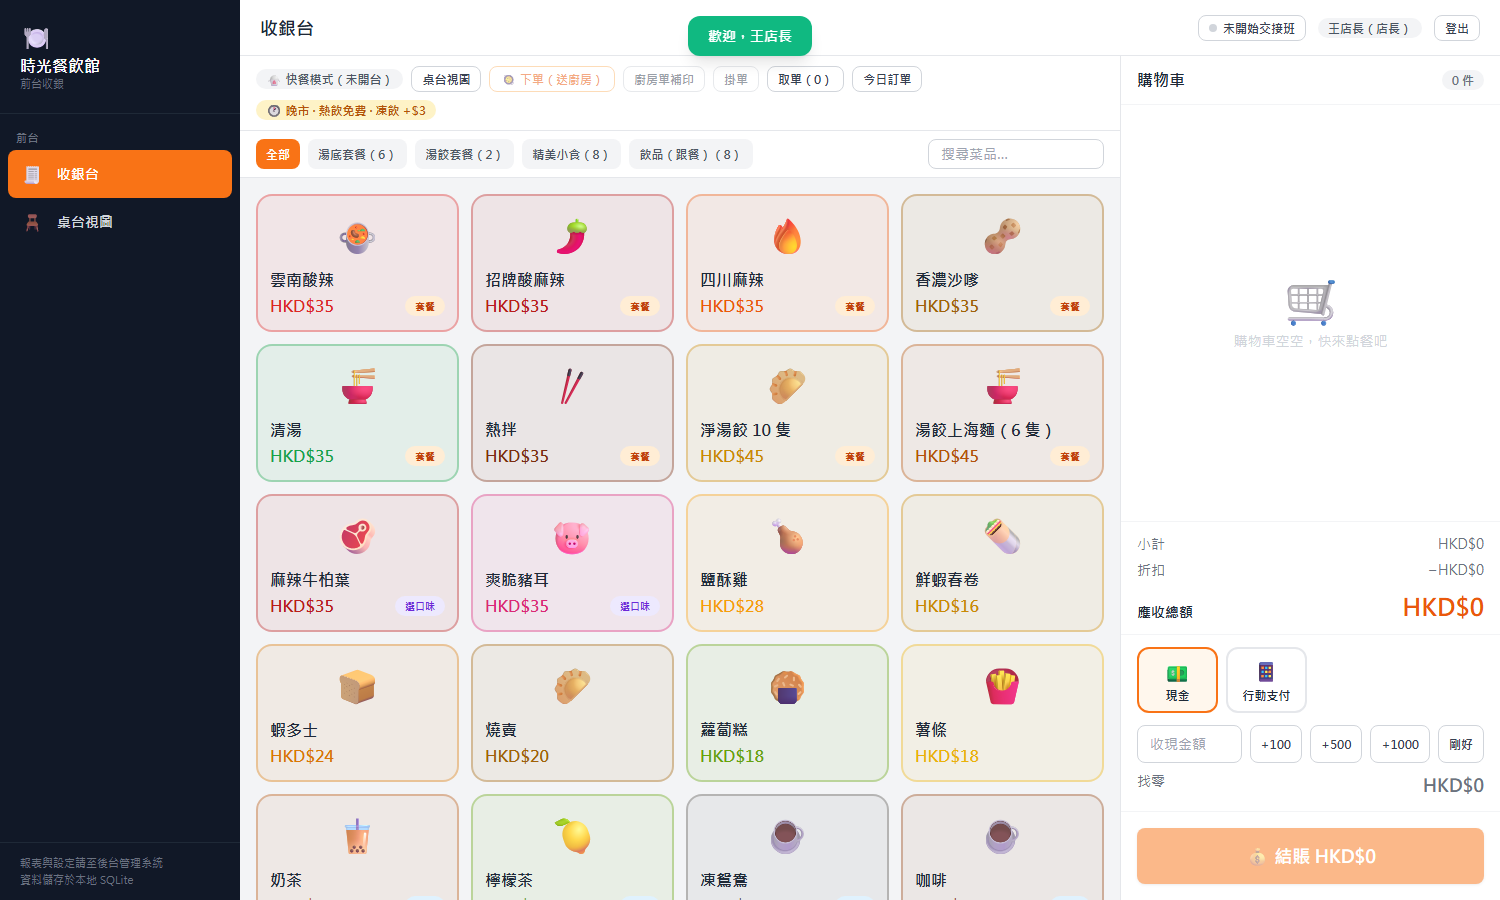
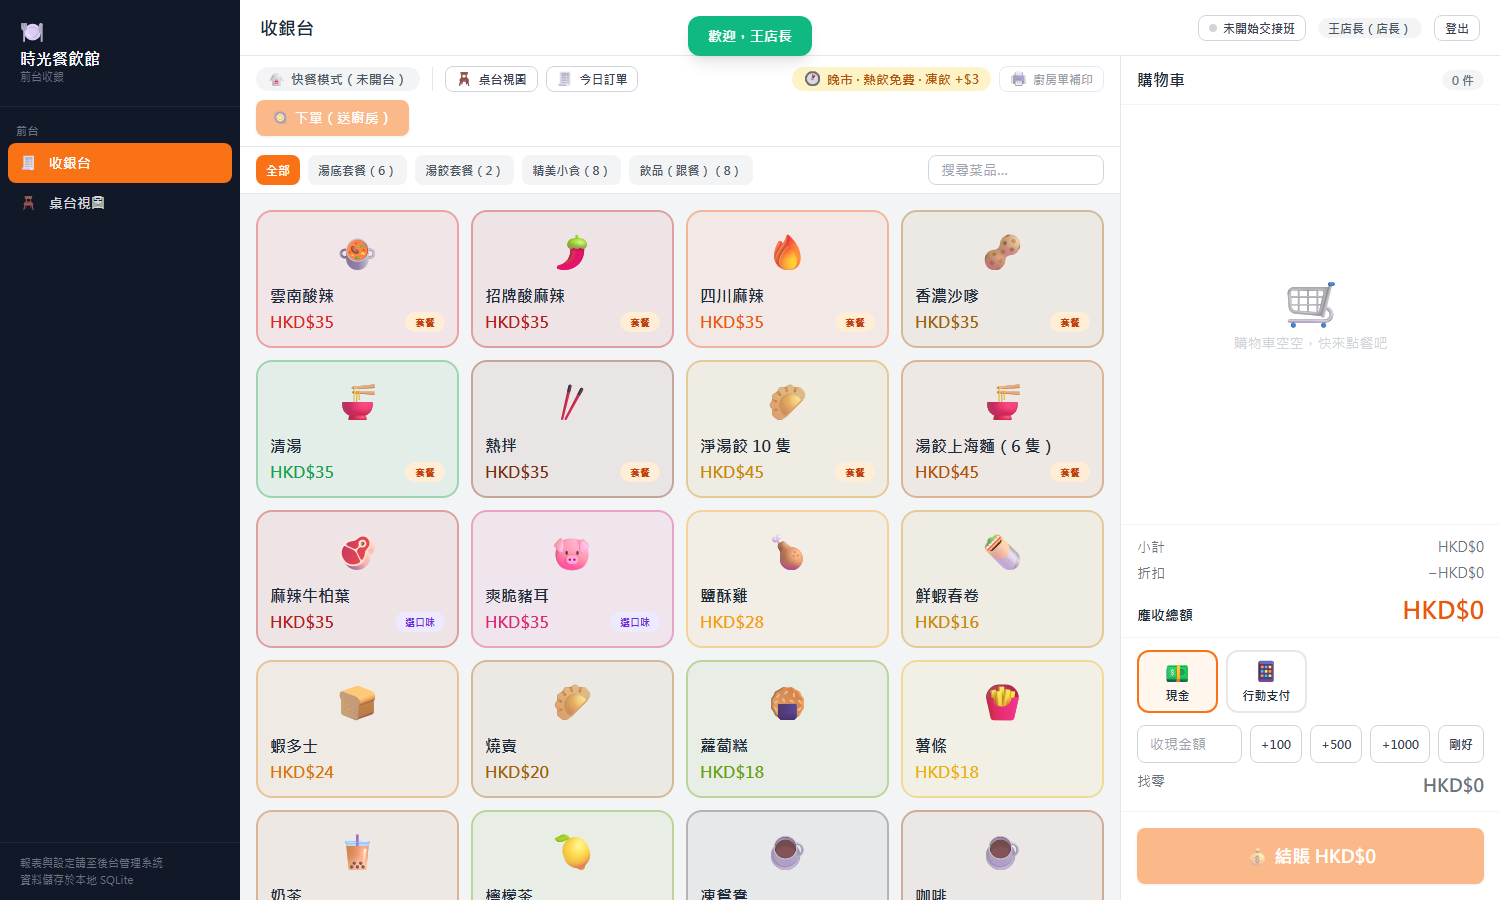
優化：移除掛單/取單功能，重排收銀台工具列並統一圖示尺寸
- 移除掛單 / 取單 / 刪除掛單（UI、pos store 的 hold/loadHeld/resumeHeld、今日訂單的刪除掛單按鈕），該功能用不上
- 收銀台工具列重新分區：左＝單據狀態（桌台/外帶、送廚進度）、中＝輔助操作（桌台視圖/今日訂單/換桌/作廢）、右＝時段資訊與主要動作（廚房單補印、下單送廚房）
- 新增 .ico / .ico-lg 統一 emoji 圖示尺寸（工具列、側邊欄導航、支付方式、廚房單標題），解決 emoji 字體內建度量不一造成的視覺大小落差
- 文件同步：README 前台功能清單、點餐流程設計的訂單狀態表與說明

diff --git a/client/src/views/PosView.vue b/client/src/views/PosView.vue
@@ -59,7 +59,6 @@ const specForm = ref({ product: null, qty: 1, spec: '', remark: '', editing: nul
 const discountModal = ref(false);
 const discountForm = ref({ mode: 'rate', rate: 95, amount: 0 });
 
-const heldModal = ref(false);
 const ordersModal = ref(false);
 const todayOrders = ref([]);
 const ordersDetail = ref(null);
@@ -77,7 +76,6 @@ const ticket = ref(null);
 onMounted(async () => {
   try {
     await catalog.loadAll();
-    await pos.loadHeld();
   } catch (e) {
     toast.error(e.message);
   }
@@ -193,26 +191,6 @@ function applyDiscount() {
   discountModal.value = false;
 }
 
-/* ---------------- 掛單 / 取單 ---------------- */
-async function holdOrder() {
-  try {
-    await pos.hold();
-    await pos.loadHeld();
-    toast.success('已掛單，可在「取單」恢復');
-  } catch (e) {
-    toast.error(e.message);
-  }
-}
-async function resumeHeld(order) {
-  try {
-    await pos.resumeHeld(order);
-    heldModal.value = false;
-    toast.success('已取單');
-  } catch (e) {
-    toast.error(e.message);
-  }
-}
-
 /* ---------------- 今日訂單 ---------------- */
 async function openOrders() {
   try {
@@ -251,17 +229,6 @@ async function voidOrderRow(o) {
     todayOrders.value = await api.get(`/orders?date=${today()}&limit=100`);
     ordersDetail.value = null;
     toast.success('訂單已作廢');
-  } catch (e) {
-    toast.error(e.message);
-  }
-}
-async function deleteHeldRow(o) {
-  if (!confirm(`確定刪除掛單 ${o.order_no}？`)) return;
-  try {
-    await api.del(`/orders/${o.id}`);
-    todayOrders.value = await api.get(`/orders?date=${today()}&limit=100`);
-    await pos.loadHeld();
-    toast.success('掛單已刪除');
   } catch (e) {
     toast.error(e.message);
   }
@@ -331,7 +298,6 @@ async function checkout() {
   try {
     receipt.value = await pos.checkout();
     await catalog.reloadTables();
-    await pos.loadHeld();
   } catch (e) {
     toast.error(e.message);
   }
@@ -407,32 +373,50 @@ const cashShort = computed(() => pos.paymentMethod === 'cash' && pos.received > 
   <div class="h-full flex">
     <!-- 左：菜品展示區 -->
     <section class="flex-1 flex flex-col min-w-0">
-      <!-- 工具列 -->
-      <div class="bg-white border-b border-gray-200 px-4 py-2.5 flex items-center gap-2 flex-wrap shrink-0">
-        <span
-          class="chip"
-          :class="pos.tableId ? 'bg-brand-100 text-brand-700' : pos.hasServerOrder ? 'bg-amber-100 text-amber-700' : 'bg-gray-100 text-gray-600'"
-        >
-          <template v-if="pos.tableId">🪑 桌台 {{ pos.tableNumber }} · {{ pos.orderNo }}</template>
-          <template v-else-if="pos.hasServerOrder">🥡 外帶 / 快餐 · {{ pos.orderNo }}</template>
-          <template v-else>🥡 快餐模式（未開台）</template>
-        </span>
-        <span v-if="pos.hasServerOrder" class="chip" :class="pos.pendingCount ? 'bg-gray-100 text-gray-500' : 'bg-emerald-100 text-emerald-700'">
-          {{ pos.pendingCount ? `${pos.pendingCount} 項待送廚` : '已全部送廚' }}
-        </span>
-        <button class="btn-ghost btn-sm" @click="router.push('/tables')">桌台視圖</button>
-        <button class="btn-ghost btn-sm !text-brand-600 !border-brand-300" :disabled="!pos.pendingCount || submitting" @click="submitOrder">
-          🥘 下單（送廚房）
-        </button>
-        <button class="btn-ghost btn-sm" :disabled="!pos.hasServerOrder" @click="reprintTicket">廚房單補印</button>
-        <button class="btn-ghost btn-sm" :disabled="!pos.items.length || pos.hasServerOrder" @click="holdOrder">掛單</button>
-        <button class="btn-ghost btn-sm" @click="heldModal = true">取單（{{ pos.heldOrders.length }}）</button>
-        <button class="btn-ghost btn-sm" @click="openOrders">今日訂單</button>
-        <button v-if="pos.tableId" class="btn-ghost btn-sm" @click="moveModal = true">換桌</button>
-        <button v-if="pos.hasServerOrder && auth.isManager" class="btn-ghost btn-sm !text-red-500" @click="voidModal = true">作廢</button>
+      <!-- 工具列：單據狀態 / 輔助操作 / 主要動作 -->
+      <div class="bg-white border-b border-gray-200 px-4 py-2.5 flex items-center gap-2 flex-wrap shrink-0 shadow-[0_1px_0_rgba(0,0,0,0.02)]">
+        <!-- 左：目前單據狀態 -->
+        <div class="flex items-center gap-2 pr-3 mr-1 border-r border-gray-200">
+          <span
+            class="chip !gap-1.5 !px-3 !py-1 !text-[13px]"
+            :class="pos.tableId ? 'bg-brand-100 text-brand-700' : pos.hasServerOrder ? 'bg-amber-100 text-amber-700' : 'bg-gray-100 text-gray-600'"
+          >
+            <span class="ico">{{ pos.tableId ? '🪑' : '🥡' }}</span>
+            <template v-if="pos.tableId">桌台 {{ pos.tableNumber }} · {{ pos.orderNo }}</template>
+            <template v-else-if="pos.hasServerOrder">外帶 / 快餐 · {{ pos.orderNo }}</template>
+            <template v-else>快餐模式（未開台）</template>
+          </span>
+          <span
+            v-if="pos.hasServerOrder"
+            class="chip !gap-1.5 !px-3 !py-1 !text-[13px]"
+            :class="pos.pendingCount ? 'bg-gray-100 text-gray-500' : 'bg-emerald-100 text-emerald-700'"
+          >
+            <span class="ico">{{ pos.pendingCount ? '⏳' : '✅' }}</span>
+            {{ pos.pendingCount ? `${pos.pendingCount} 項待送廚` : '已全部送廚' }}
+          </span>
+        </div>
+
+        <!-- 中：輔助操作 -->
+        <div class="flex items-center gap-2">
+          <button class="btn-ghost btn-sm" @click="router.push('/tables')"><span class="ico">🪑</span>桌台視圖</button>
+          <button class="btn-ghost btn-sm" @click="openOrders"><span class="ico">🧾</span>今日訂單</button>
+          <button v-if="pos.tableId" class="btn-ghost btn-sm" @click="moveModal = true"><span class="ico">🔄</span>換桌</button>
+          <button v-if="pos.hasServerOrder && auth.isManager" class="btn-ghost btn-sm !text-red-500 hover:!bg-red-50" @click="voidModal = true"><span class="ico">🚫</span>作廢</button>
+        </div>
+
         <div class="flex-1" />
-        <span class="chip bg-amber-100 text-amber-700">🕐 {{ slotRuleText(nowSlot) }}</span>
-        <span v-if="catalog.serviceRate > 0" class="chip bg-amber-100 text-amber-700">服務費 {{ catalog.serviceRate }}%</span>
+
+        <!-- 右：時段資訊 + 主要動作 -->
+        <span class="chip !gap-1.5 !px-3 !py-1 !text-[13px] bg-amber-100 text-amber-700"><span class="ico">🕐</span>{{ slotRuleText(nowSlot) }}</span>
+        <span v-if="catalog.serviceRate > 0" class="chip !gap-1.5 !px-3 !py-1 !text-[13px] bg-amber-100 text-amber-700"><span class="ico">💁</span>服務費 {{ catalog.serviceRate }}%</span>
+        <button class="btn-ghost btn-sm" :disabled="!pos.hasServerOrder" @click="reprintTicket"><span class="ico">🖨</span>廚房單補印</button>
+        <button
+          class="btn-primary btn-sm !px-4 !py-2 !text-sm"
+          :disabled="!pos.pendingCount || submitting"
+          @click="submitOrder"
+        >
+          <span class="ico">🥘</span>{{ submitting ? '送廚中…' : '下單（送廚房）' }}
+        </button>
       </div>
 
       <!-- 分類 -->
@@ -572,7 +556,7 @@ const cashShort = computed(() => pos.paymentMethod === 'cash' && pos.received > 
             :class="pos.paymentMethod === pm.code ? 'border-brand-500 bg-brand-50' : 'border-gray-200'"
             @click="pos.setPayment(pm.code)"
           >
-            <div class="text-xl">{{ paymentMeta(pm.code).icon }}</div>
+            <div class="ico-lg mx-auto">{{ paymentMeta(pm.code).icon }}</div>
             <div class="text-xs font-bold mt-0.5">{{ pm.name }}</div>
             <div v-if="Number(pm.fee_rate) > 0" class="text-[10px] text-gray-400">費率{{ (pm.fee_rate * 100).toFixed(1) }}%</div>
           </button>
@@ -734,25 +718,6 @@ const cashShort = computed(() => pos.paymentMethod === 'cash' && pos.received > 
       </template>
     </Modal>
 
-    <!-- ============ 掛單列表 ============ -->
-    <Modal v-model="heldModal" title="掛單 / 取單" width="max-w-md">
-      <div v-if="!pos.heldOrders.length" class="text-center text-gray-300 py-8">目前沒有掛單</div>
-      <div v-else class="space-y-2">
-        <div
-          v-for="o in pos.heldOrders"
-          :key="o.id"
-          class="flex items-center gap-3 rounded-xl border border-gray-200 px-4 py-3"
-        >
-          <div class="flex-1">
-            <div class="font-bold text-sm">{{ o.order_no }}</div>
-            <div class="text-xs text-gray-400">{{ fmtTime(o.created_at) }} · {{ o.item_count }} 件 · {{ fmtMoney(o.total_amount, catalog.currency) }}</div>
-          </div>
-          <button class="btn-primary btn-sm" @click="resumeHeld(o)">取單</button>
-          <button class="btn-ghost btn-sm !text-red-500" @click="api.del(`/orders/${o.id}`).then(() => { pos.loadHeld(); toast.success('掛單已刪除'); }).catch((e) => toast.error(e.message))">刪除</button>
-        </div>
-      </div>
-    </Modal>
-
     <!-- ============ 今日訂單 ============ -->
     <Modal v-model="ordersModal" title="今日訂單" width="max-w-2xl">
       <div class="space-y-2">
@@ -784,7 +749,6 @@ const cashShort = computed(() => pos.paymentMethod === 'cash' && pos.received > 
             <div class="flex gap-2 pt-1">
               <button v-if="o.status === 'open' && o.table_id" class="btn-primary btn-sm" @click="continueOrder(o)">繼續點餐</button>
               <button v-if="o.status === 'open'" class="btn-ghost btn-sm !text-red-500" @click="voidOrderRow(o)">作廢</button>
-              <button v-if="o.status === 'held'" class="btn-ghost btn-sm !text-red-500" @click="deleteHeldRow(o)">刪除掛單</button>
             </div>
           </div>
         </div>

diff --git a/client/src/stores/pos.js b/client/src/stores/pos.js
@@ -6,7 +6,7 @@ import { useToastStore } from '@shared/stores/toast';
 /**
  * 收銀台購物車
  * - 開台模式：orderId 不為 null，每次加菜/改動即時同步服務端
- * - 快餐/掛單模式：orderId 為 null，購物車暫存於前端，結帳時一次性建立訂單
+ * - 快餐/外帶模式：orderId 為 null，購物車暫存於前端，下單時一次性建立訂單
  */
 let tempSeq = 0;
 
@@ -21,7 +21,6 @@ export const usePosStore = defineStore('pos', {
     discountLabel: '',
     paymentMethod: 'cash',
     received: 0,
-    heldOrders: [],
   }),
   getters: {
     catalog() { return useCatalogStore(); },
@@ -179,28 +178,6 @@ export const usePosStore = defineStore('pos', {
     },
     setReceived(v) {
       this.received = v;
-    },
-    /** 掛單（僅快餐/無桌台模式） */
-    async hold() {
-      if (!this.items.length) throw new Error('購物車為空，無可掛單');
-      if (this.orderId) throw new Error('桌台訂單請直接結帳或作廢');
-      const order = await api.post('/orders', {
-        status: 'held',
-        items: this.items.map((i) => this.itemPayload(i)),
-      });
-      this.reset();
-      return order;
-    },
-    async loadHeld() {
-      this.heldOrders = await api.get('/orders?status=held&limit=50');
-    },
-    /** 取單：把掛單載入購物車並刪除掛單記錄 */
-    async resumeHeld(order) {
-      const full = await api.get(`/orders/${order.id}`);
-      this.reset();
-      this.items = (full.items || []).map((it) => this.mapItem(it));
-      await api.del(`/orders/${order.id}`);
-      this.loadHeld();
     },
     /** 組裝傳給後端的明細 payload（含套餐選項） */
     itemPayload(i) {

diff --git a/client/src/layouts/MainLayout.vue b/client/src/layouts/MainLayout.vue
@@ -67,7 +67,7 @@ const pageTitle = computed(() => route.meta.title || '');
     <!-- 側邊欄 -->
     <aside class="w-60 shrink-0 bg-gray-900 text-gray-300 flex flex-col">
       <div class="px-5 py-5 border-b border-gray-800">
-        <div class="text-2xl">🍽</div>
+        <div class="ico-lg">🍽</div>
         <div class="mt-1 font-extrabold text-white leading-tight">{{ catalog.storeName }}</div>
         <div class="text-[11px] text-gray-500">前台收銀</div>
       </div>
@@ -81,7 +81,7 @@ const pageTitle = computed(() => route.meta.title || '');
           class="flex items-center gap-3 mx-2 px-3 py-2.5 rounded-lg text-sm font-bold transition"
           :class="route.path.startsWith(n.path) ? 'bg-brand-500 text-white' : 'hover:bg-gray-800'"
         >
-          <span class="text-lg">{{ n.icon }}</span>{{ n.title }}
+          <span class="ico">{{ n.icon }}</span>{{ n.title }}
         </router-link>
       </nav>
 

diff --git a/admin/src/layouts/MainLayout.vue b/admin/src/layouts/MainLayout.vue
@@ -42,7 +42,7 @@ const pageTitle = computed(() => route.meta.title || '');
     <!-- 側邊欄 -->
     <aside class="w-60 shrink-0 bg-gray-900 text-gray-300 flex flex-col">
       <div class="px-5 py-5 border-b border-gray-800">
-        <div class="text-2xl">⚙</div>
+        <div class="ico-lg">⚙</div>
         <div class="mt-1 font-extrabold text-white leading-tight">{{ catalog.storeName }}</div>
         <div class="text-[11px] text-gray-500">後台管理</div>
       </div>
@@ -56,7 +56,7 @@ const pageTitle = computed(() => route.meta.title || '');
           class="flex items-center gap-3 mx-2 px-3 py-2.5 rounded-lg text-sm font-bold transition"
           :class="route.path.startsWith(n.path) ? 'bg-brand-500 text-white' : 'hover:bg-gray-800'"
         >
-          <span class="text-lg">{{ n.icon }}</span>{{ n.title }}
+          <span class="ico">{{ n.icon }}</span>{{ n.title }}
         </router-link>
       </nav>
 

diff --git a/client/src/components/KitchenTicketModal.vue b/client/src/components/KitchenTicketModal.vue
@@ -24,7 +24,7 @@ function print() {
   <Modal :model-value="modelValue" title="廚房單（後廚 / 水吧）" width="max-w-md" @close="onClose">
     <div v-if="ticket" class="print-area space-y-4">
       <div class="text-center space-y-1">
-        <div class="font-extrabold text-lg">🍳 廚房單</div>
+        <div class="font-extrabold text-lg flex items-center justify-center gap-1.5"><span class="ico">🍳</span>廚房單</div>
         <div class="text-xs text-gray-400">
           {{ ticket.order_no }}<span v-if="ticket.table_number"> · 桌台 {{ ticket.table_number }}</span> · {{ ticket.created_at }}
         </div>

diff --git a/shared/style.css b/shared/style.css
@@ -48,6 +48,18 @@
   .chip {
     @apply inline-flex items-center gap-1 rounded-full px-2.5 py-0.5 text-xs font-bold;
   }
+  /* 統一 emoji 圖示的視覺尺寸：emoji 字體內建度量不一，固定寬度與字級讓各處對齊一致 */
+  .ico {
+    @apply inline-flex items-center justify-center shrink-0 leading-none;
+    width: 1.05rem;
+    font-size: 0.95rem;
+  }
+  /* 大尺寸圖示（導航 / 頁首） */
+  .ico-lg {
+    @apply inline-flex items-center justify-center shrink-0 leading-none;
+    width: 1.5rem;
+    font-size: 1.35rem;
+  }
 }
 
 /* 細滾動條 */

diff --git a/README.md b/README.md
@@ -51,7 +51,7 @@ npm run dev
 
 ## 功能模組
 
-- **前台收銀**（`client/`）：分類切換 / 菜品網格（售罄標記）、購物車（數量、備註、規格、送廚狀態）、折扣/抹零/服務費、多種支付方式（現金找零計算機）、開台/換桌/併桌、桌台狀態視覺化（空閒/點餐中/製作中/待清/預訂）、掛單/取單、退菜、作廢訂單、今日訂單查詢、廚房單與結帳小票預覽。
+- **前台收銀**（`client/`）：分類切換 / 菜品網格（售罄標記）、購物車（數量、備註、規格、送廚狀態）、折扣/抹零/服務費、多種支付方式（現金找零計算機）、開台/換桌/併桌、桌台狀態視覺化（空閒/點餐中/製作中/待清/預訂）、退菜、作廢訂單、今日訂單查詢、廚房單與結帳小票預覽。
 - **套餐向導點餐**（粉麵餐店模式，見 [docs/點餐流程設計.md](docs/點餐流程設計.md)）：
   - 湯底套餐 5 步向導：湯底 → 麵類（烏冬 +$2）→ 辣度（清湯自動跳過）→ 配料多選（$7/$8/$9/$11 階梯）→ 飲品
   - 湯餃套餐 3 步向導：類型 → 餡料 → 飲品
